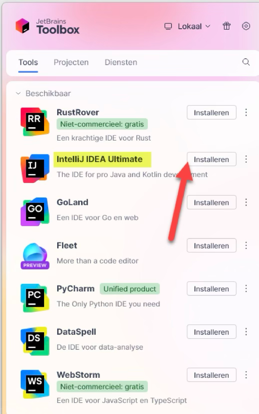
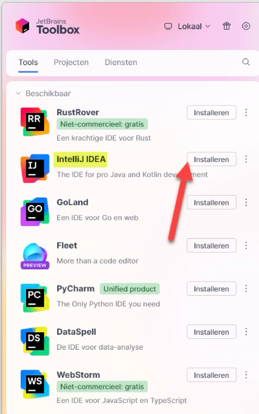
intellij idea ultimate is veranderd van naam naar intellij idea

Changed region(s): [[0.4015, 0.3478, 0.5869, 0.4058]]

diff --git a/intellij-installatie/intellij-installatie.md b/intellij-installatie/intellij-installatie.md
@@ -79,7 +79,7 @@ Op de Toolbox-pagina wordt automatisch een downloadlink voor jouw systeem getoon
 
 ![](screenshots/toolbox-1.png)
 
-Na het downloaden, open je de installer en start je de installatie door op **Install** te klikken.
+Na het downloaden, open de installer en start de installatie door op **Install** te klikken.
 
 ![](screenshots/toolbox-2.png)
 
@@ -89,9 +89,7 @@ Ga akkoord met de voorwaarden en klik op **Starten**.
 
 Open de Toolbox-app en ga naar het tabblad **Tools**.
 
-OPGELET: er is ook een applicatie "IntelliJ IDEA Community", deze is niet de juiste.
-
-Zoek de applicatie **IntelliJ IDEA Ultimate** en installeer deze.
+Zoek de applicatie **IntelliJ IDEA** en installeer deze.
 
 ![](screenshots/toolbox-4.png)
 
